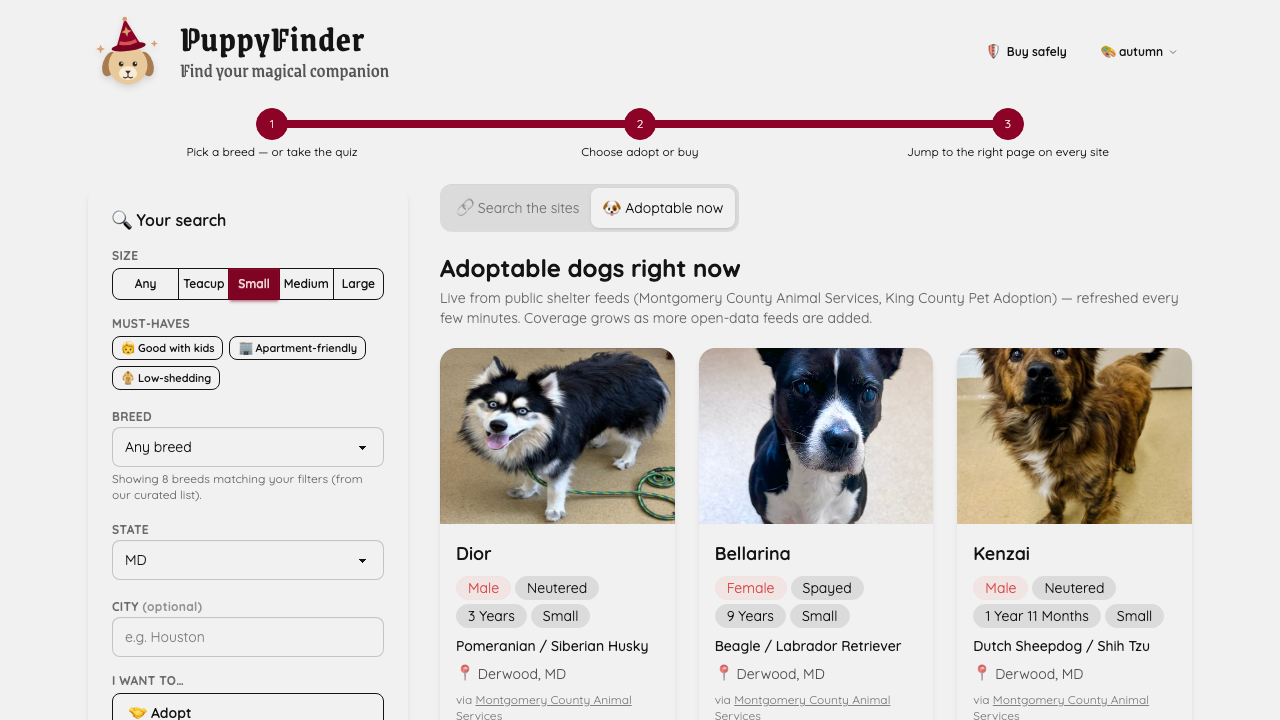
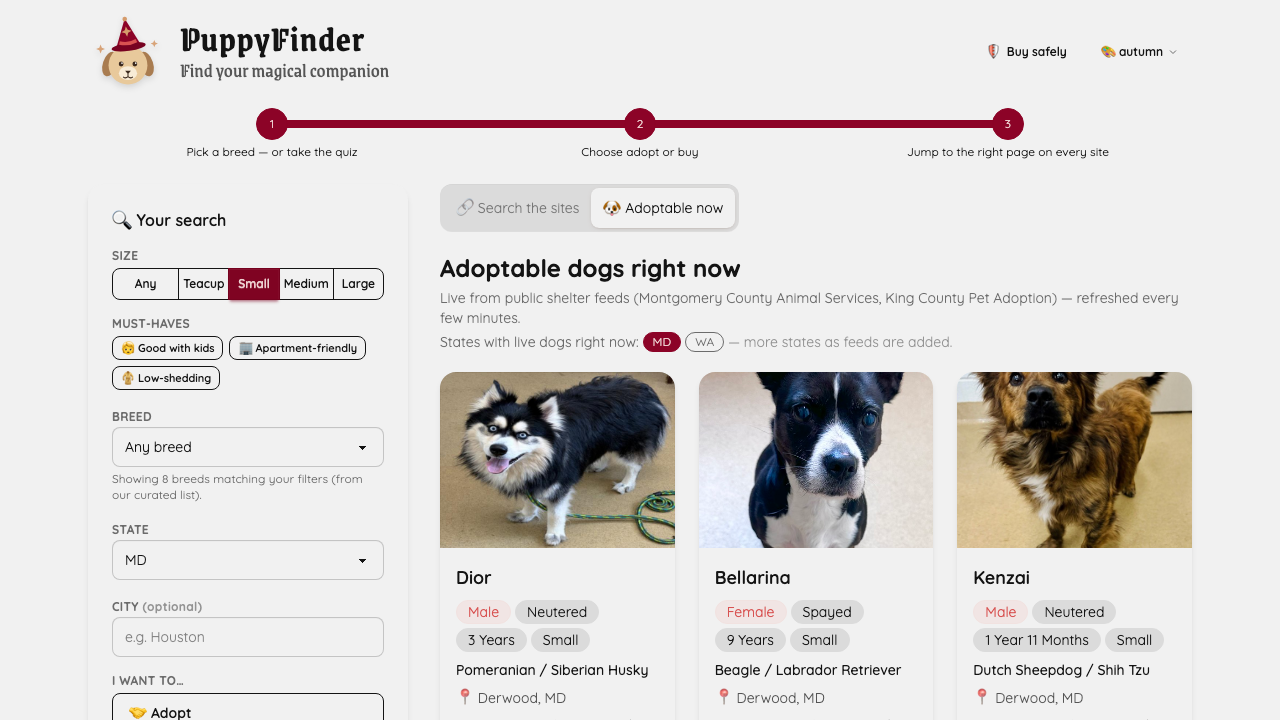
Show live state coverage on the adopt tab; smarter empty states
No US state publishes a statewide adoptable-pets API (researched July 2026;
RescueGroups key request is the nationwide path), so with two county feeds
most states legitimately return zero listings - which read as a broken
filter. Now the tab is honest about it:

- GET /api/coverage returns the states that currently have live listings,
  derived from the data itself so it self-updates as feeds are added.
- The adopt tab shows "States with live dogs right now: [MD] [WA]" as
  clickable chips that set/clear the state filter.
- The empty state distinguishes "no feed covers TX yet" (with one-click
  jumps to covered states) from "your breed/size filters are too narrow".

112 backend tests passing; e2e smoke test passes.

🤖 Generated with Claude Code

Changed region(s): [[0.3438, 0.4278, 0.9375, 1.0]]

diff --git a/frontend/src/App.vue b/frontend/src/App.vue
@@ -40,6 +40,7 @@ const error = ref('')
 // load and render inside the "Adoptable now" tab.
 const listings = ref([])
 const sources = ref([])
+const coveredStates = ref([]) // states with at least one live listing right now
 const loadingListings = ref(false)
 const listingsError = ref('')
 const listingsStale = ref(true)
@@ -98,13 +99,15 @@ async function loadListings() {
     if (selectedState.value) params.set('state', selectedState.value)
     if (selectedCity.value.trim() && selectedState.value) params.set('city', selectedCity.value.trim())
     if (selectedSize.value) params.set('size', selectedSize.value)
-    const [listRes, srcRes] = await Promise.all([
+    const [listRes, srcRes, covRes] = await Promise.all([
       fetch(`/api/listings${params.size ? `?${params}` : ''}`),
       sources.value.length ? Promise.resolve(null) : fetch('/api/sources'),
+      coveredStates.value.length ? Promise.resolve(null) : fetch('/api/coverage'),
     ])
     if (!listRes.ok) throw new Error(`API returned ${listRes.status}`)
     listings.value = await listRes.json()
     if (srcRes?.ok) sources.value = await srcRes.json()
+    if (covRes?.ok) coveredStates.value = await covRes.json()
     listingsStale.value = false
   } catch (e) {
     listingsError.value = `Could not load listings (${e.message})`
@@ -300,7 +303,21 @@ onMounted(() => {
           </h2>
           <p class="mb-1 text-sm text-base-content/60">
             Live from public shelter feeds{{ activeSources.length ? ` (${activeSources.join(', ')})` : '' }}
-            — refreshed every few minutes. Coverage grows as more open-data feeds are added.
+            — refreshed every few minutes.
+          </p>
+          <p v-if="coveredStates.length" class="mb-1 flex flex-wrap items-center gap-1 text-sm text-base-content/60">
+            States with live dogs right now:
+            <button
+              v-for="s in coveredStates"
+              :key="s"
+              type="button"
+              class="badge badge-sm cursor-pointer"
+              :class="selectedState === s ? 'badge-primary' : 'badge-outline'"
+              @click="selectedState = selectedState === s ? '' : s"
+            >
+              {{ s }}
+            </button>
+            <span class="opacity-70">— more states as feeds are added.</span>
           </p>
           <p v-if="traits.length" class="mb-5 text-xs text-base-content/50">
             ℹ Must-have traits narrow the breed picker only — shelter feeds don't include
@@ -317,15 +334,29 @@ onMounted(() => {
           <div v-else class="card bg-base-100 shadow-md">
             <div class="card-body items-center text-center">
               <span class="text-4xl">🐾</span>
-              <p class="font-semibold">No live listings match your filters yet.</p>
-              <p class="text-sm opacity-70">
-                Our shelter feeds currently cover Maryland (Montgomery County) and Washington
-                (King County). Try clearing the breed or state — or use the site search tab,
+              <p class="font-semibold">No live listings match your filters.</p>
+              <p v-if="selectedState && !coveredStates.includes(selectedState)" class="text-sm opacity-70">
+                No shelter feed covers {{ selectedState }} yet — right now live listings exist in
+                {{ coveredStates.join(' and ') || 'no states' }}. The site search tab covers the whole country.
+              </p>
+              <p v-else class="text-sm opacity-70">
+                Try loosening the breed or size filter — or use the site search tab,
                 which covers the whole country.
               </p>
-              <button type="button" class="btn btn-outline btn-sm" @click="tab = 'sites'">
-                ← Back to site search
-              </button>
+              <div class="flex flex-wrap justify-center gap-2">
+                <button
+                  v-for="s in coveredStates.filter((c) => c !== selectedState)"
+                  :key="s"
+                  type="button"
+                  class="btn btn-outline btn-sm"
+                  @click="selectedState = s"
+                >
+                  🐶 Show {{ s }} dogs
+                </button>
+                <button type="button" class="btn btn-outline btn-sm" @click="tab = 'sites'">
+                  ← Back to site search
+                </button>
+              </div>
             </div>
           </div>
         </template>

diff --git a/backend/Program.cs b/backend/Program.cs
@@ -110,6 +110,16 @@ app.MapGet("/api/sources", (ListingAggregator aggregator) =>
     Results.Ok(aggregator.GetSourceStatuses()))
 .WithName("GetSources");
 
+// States that currently have at least one live adoptable listing — derived from
+// the data itself so it stays correct as feeds are added (or RescueGroups arrives).
+app.MapGet("/api/coverage", async (ListingAggregator aggregator, CancellationToken ct) =>
+    Results.Ok((await aggregator.GetListingsAsync(ct))
+        .Select(l => l.State.ToUpperInvariant())
+        .Distinct()
+        .Order()
+        .ToList()))
+.WithName("GetCoverage");
+
 app.MapGet("/api/breeds", async (BreedCatalogService catalog, CancellationToken ct) =>
     Results.Ok((await catalog.GetBreedsAsync(ct)).Select(b => new
     {

diff --git a/backend.Tests/ApiIntegrationTests.cs b/backend.Tests/ApiIntegrationTests.cs
@@ -168,6 +168,14 @@ public class ApiIntegrationTests(OfflineApiFactory factory) : IClassFixture<Offl
     }
 
     [Fact]
+    public async Task Coverage_WithAllFeedsDown_ReturnsEmptyStateList()
+    {
+        var coverage = await GetJson("/api/coverage");
+        Assert.Equal(JsonValueKind.Array, coverage.ValueKind);
+        Assert.Equal(0, coverage.GetArrayLength());
+    }
+
+    [Fact]
     public async Task Sources_ReportEveryProvider_WithFailureRecorded()
     {
         await GetJson("/api/listings"); // trigger a fetch so failures are recorded
